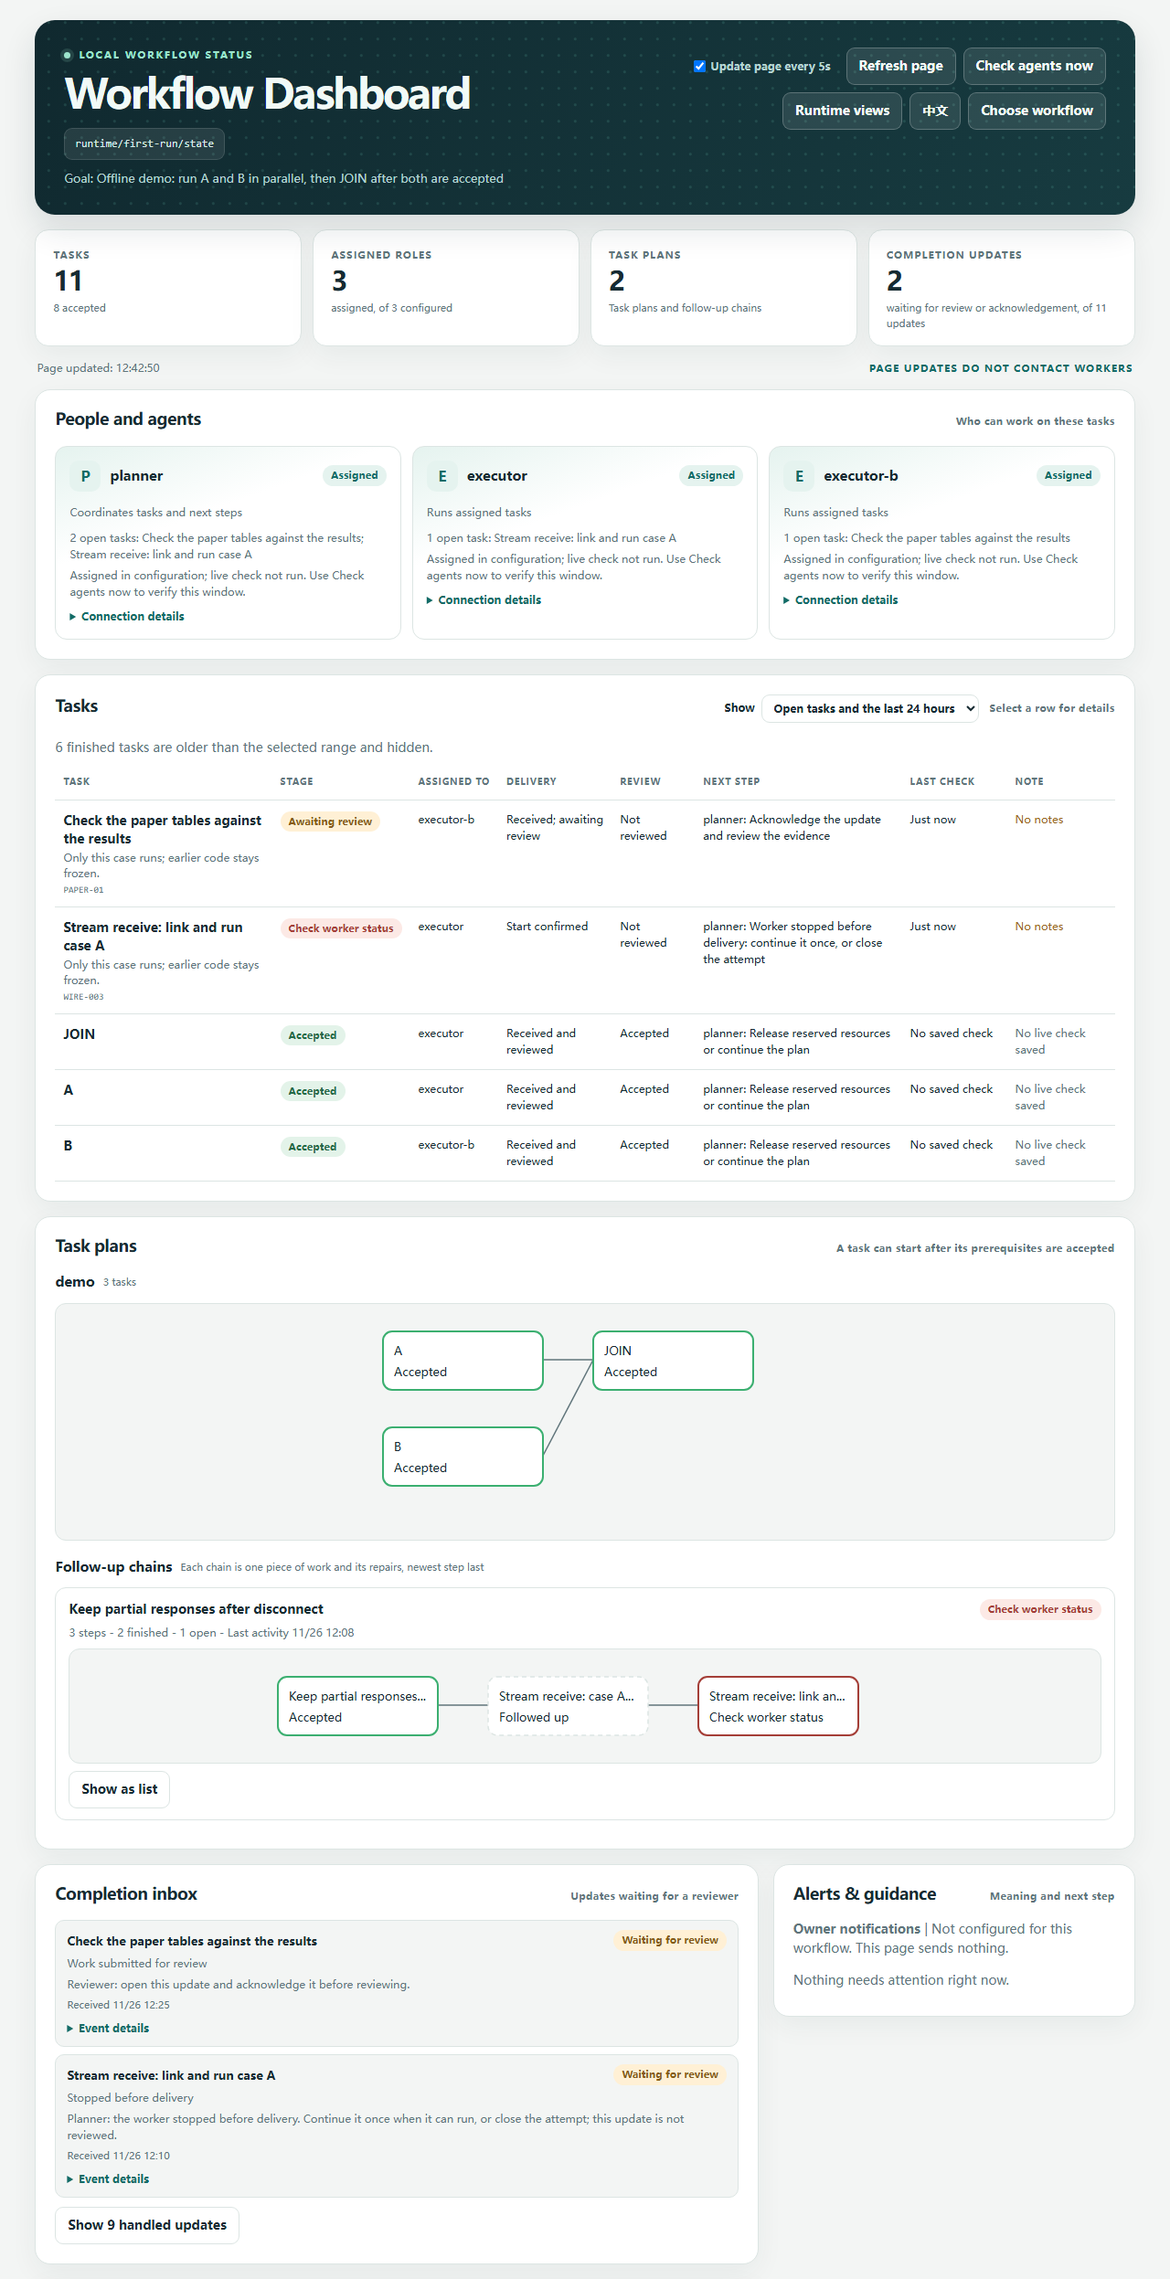
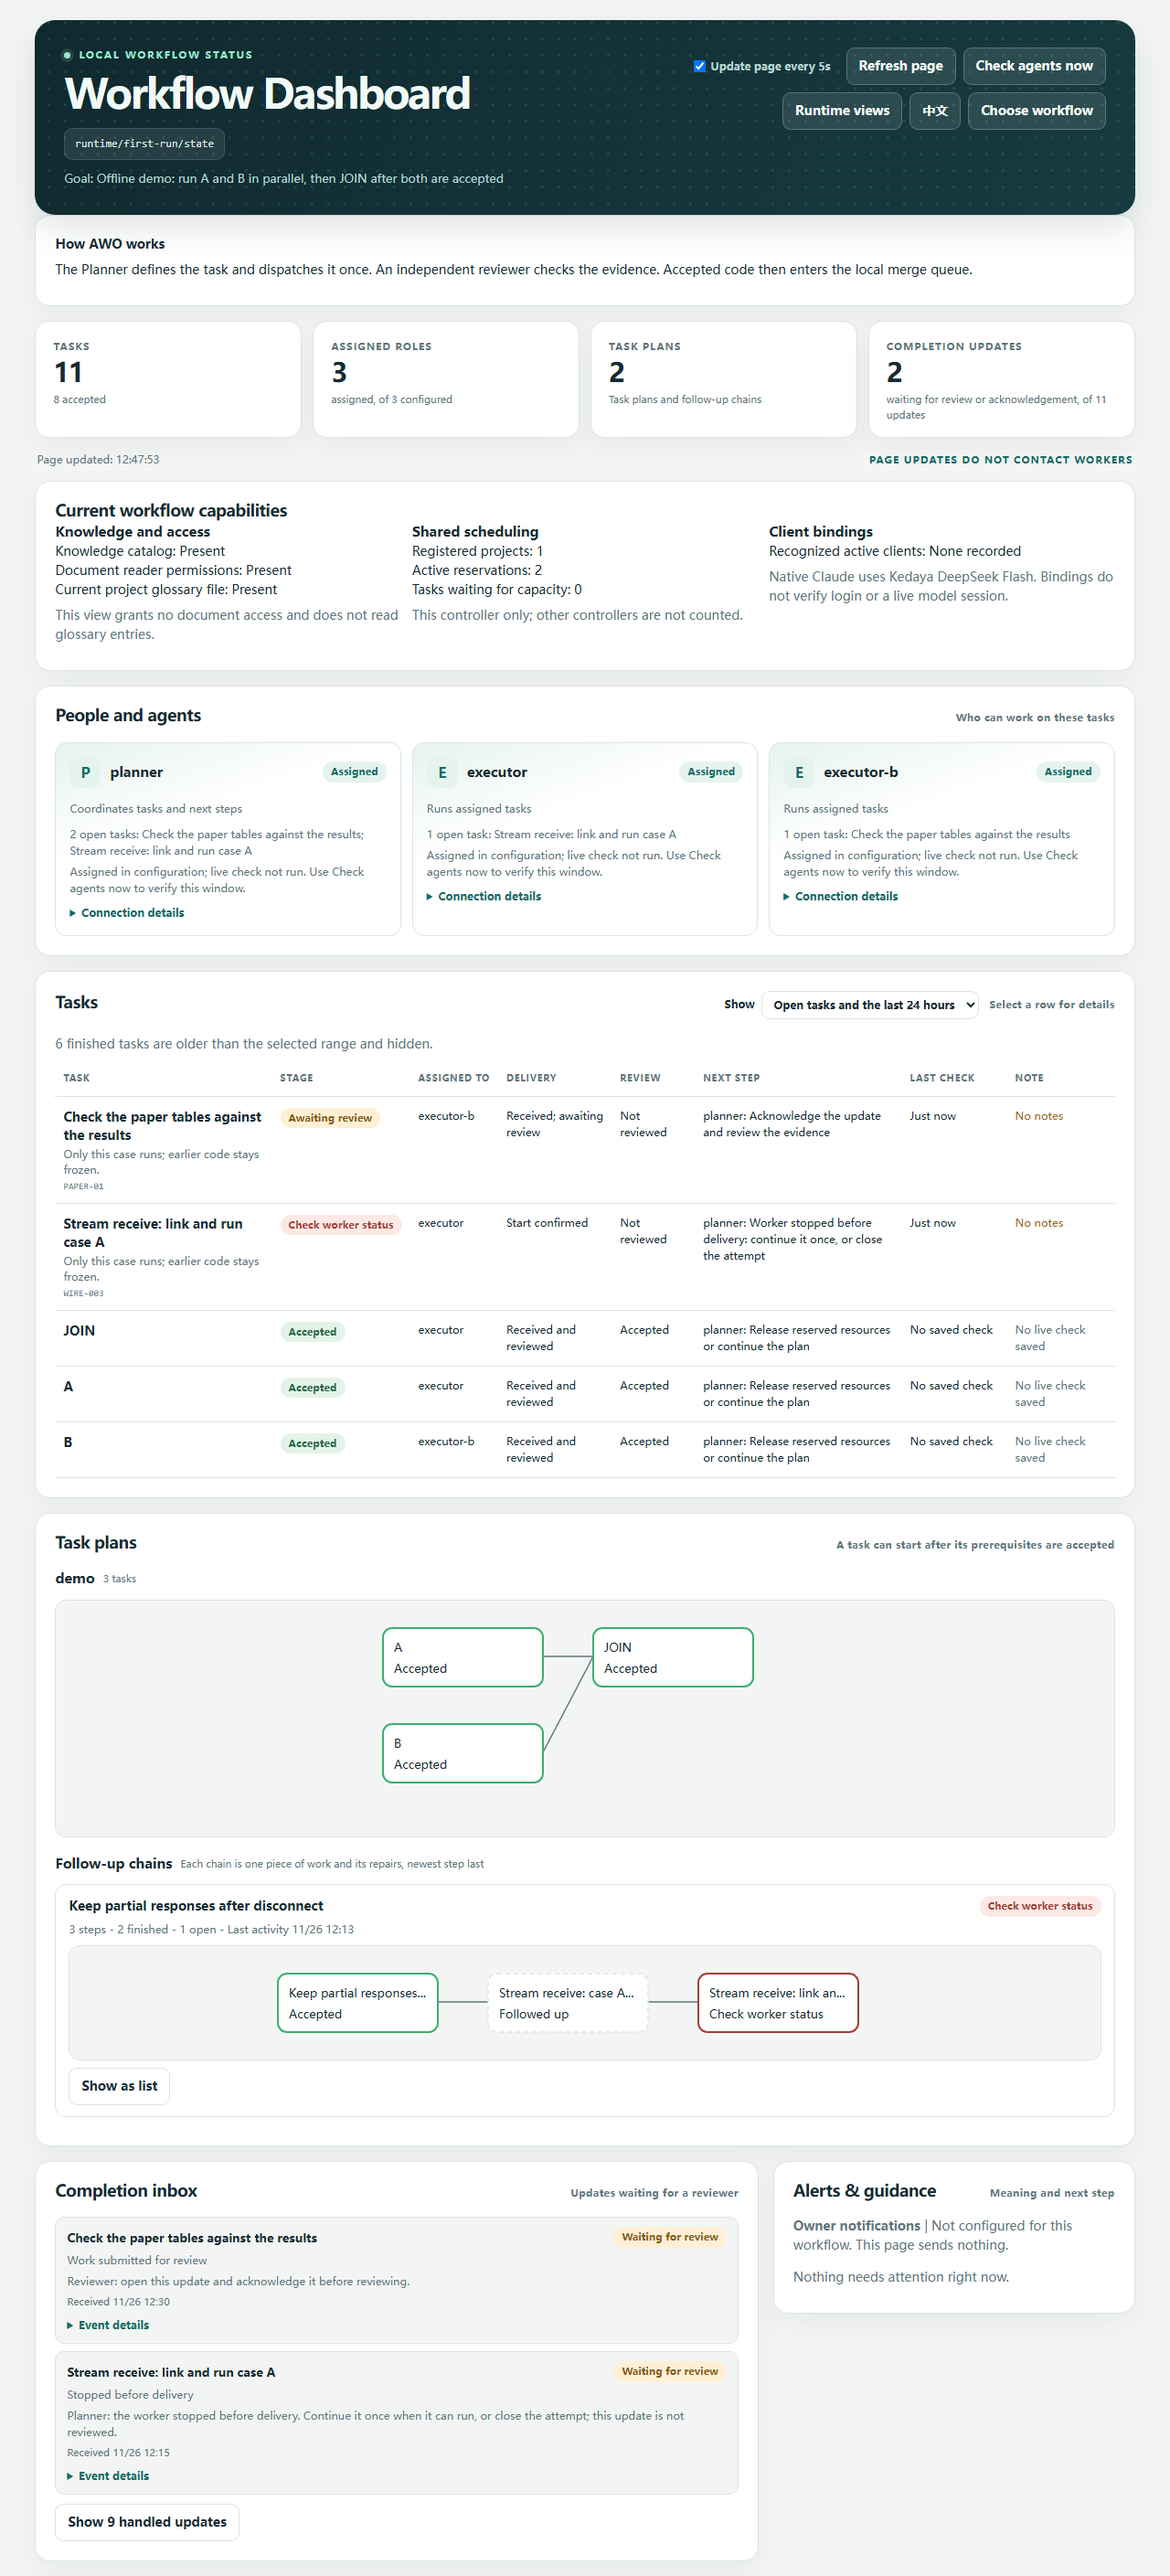
feat: show controller capabilities and workflow guide on the read-only dashboard

diff --git a/scripts/dashboard.py b/scripts/dashboard.py
@@ -436,6 +436,7 @@ svg line.grid { stroke:var(--line); stroke-width:1 } svg text.axis { font-size:1
       <button id="chat-open" type="button" class="hidden">Chat</button>
       <button id="lang" type="button" translate="no" aria-label="Language">&#x4e2d;&#x6587;</button>
       <button id="switch" type="button" class="hidden">Choose workflow</button></div></header>
+  <aside class="panel"><strong>How AWO works</strong><p>The Planner defines the task and dispatches it once. An independent reviewer checks the evidence. Accepted code then enters the local merge queue.</p></aside>
   <section class="overview" id="overview" aria-label="Workflow overview">
     <div class="metric"><span class="metric-label">Tasks</span><strong id="metric-tasks" class="metric-value">--</strong>
       <span id="metric-tasks-note" class="metric-note">Accepted tasks</span></div>
@@ -456,6 +457,7 @@ svg line.grid { stroke:var(--line); stroke-width:1 } svg text.axis { font-size:1
       <button id="open-state" class="primary" type="button">Open</button></div>
     <p id="picker-error" class="error" role="alert"></p></section>
   <div class="grid" id="main">
+    <section class="panel wide"><h2>Current workflow capabilities</h2><div class="cards" id="capabilities"></div></section>
     <section class="panel wide hidden" id="chat-panel"><div class="panel-head"><h2>Chat with a role</h2>
       <span class="panel-caption" id="chat-caption">Sent by the bound controller</span></div>
       <p class="muted">Messages go to the selected agent's session as typed input.
@@ -1245,6 +1247,22 @@ svg line.grid { stroke:var(--line); stroke-width:1 } svg text.axis { font-size:1
         next:'Open the technical detail, correct the condition, then let the next scheduling pass run.',
         technical:block.reason || 'No reason recorded'});
     if (!alerts.children.length) empty(alerts, 'Nothing needs attention right now.');
+    const cap = data.capabilities, cards = id('capabilities'); cards.replaceChildren();
+    const presence = value => value ? 'Present' : 'Not present';
+    function capability(title, rows, note) {
+      const box = add(cards, 'div', 'card'); add(box, 'h3', '', title);
+      rows.forEach(([label, value]) => add(box, 'div', '', tr(label) + ': ' + tr(String(value))));
+      add(box, 'p', 'muted', note);
+    }
+    capability('Knowledge and access', [['Knowledge catalog', presence(cap.catalog)],
+      ['Document reader permissions', presence(cap.reader_registry)], ['Current project glossary file',
+      cap.glossary_file === null ? 'No project selected in ledger' : presence(cap.glossary_file)]],
+      'This view grants no document access and does not read glossary entries.');
+    capability('Shared scheduling', [['Registered projects', cap.projects ?? 'No project registry'],
+      ['Active reservations', cap.reservations], ['Tasks waiting for capacity', cap.capacity_waits]],
+      'This controller only; other controllers are not counted.');
+    capability('Client bindings', [['Recognized active clients', cap.clients.join(', ') || 'None recorded']],
+      'Native Claude uses Kedaya DeepSeek Flash. Bindings do not verify login or a live model session.');
     const resources = id('resources'); resources.replaceChildren();
     const caps = data.resource_capacities;
     if (!Object.keys(caps).length) add(resources, 'p', 'muted', 'No named resource limits are set for this workflow.');
@@ -1917,6 +1935,28 @@ def _remember(recent_file, state):
         pass
 
 
+def capability_summary(state, summary, roles):
+    """Controller-local metadata only. Never open a glossary or resolve a material grant."""
+    with scheduler._read_database(state) as con:
+        tables = {r[0] for r in con.execute("SELECT name FROM sqlite_master WHERE type='table' "
+                  "AND name IN ('v2_project','v2_service_state','v2_knowledge','v2_knowledge_reader')")}
+        projects = con.execute("SELECT count(*) FROM v2_project").fetchone()[0] if 'v2_project' in tables else None
+        row = (con.execute("SELECT project_id FROM v2_service_state WHERE id=1").fetchone()
+               if 'v2_service_state' in tables else None)
+    glossary = None
+    if row and isinstance(row[0], str) and re.fullmatch(r"[A-Za-z0-9_-]{1,128}", row[0]):
+        folder = Path(state) / 'glossaries'
+        glossary = not folder.is_symlink() and (folder / (row[0] + '.json')).is_file()
+    known = {'claude', 'codex', 'agy', 'pi', 'omp', 'opencode', 'grok'}
+    clients = sorted({b['harness'] for role in roles for b in role['bindings']
+                      if b['status'] == 'active' and b.get('harness') in known})
+    waits = sum(1 for task in summary['tasks'] if task['phase'] == 'scheduling_blocked' and
+                task.get('blocking_reason', '').startswith(('resource capacity exhausted:', 'max_concurrency reached')))
+    return {'catalog': 'v2_knowledge' in tables, 'reader_registry': 'v2_knowledge_reader' in tables,
+            'glossary_file': glossary, 'projects': projects, 'reservations': len(summary['claims']),
+            'capacity_waits': waits, 'clients': clients}
+
+
 class DashboardServer(ThreadingHTTPServer):
     daemon_threads = True
     # Windows SO_REUSEADDR lets a second socket bind an in-use port; keep port conflicts visible there.
@@ -2115,6 +2155,7 @@ class DashboardServer(ThreadingHTTPServer):
         details = workflow_status.dashboard_details(state, summary)
         targets = [{"role": item["role"], "mode": binding["mode"]}
                    for item in details["roles"] for binding in item["bindings"] if binding["status"] == "active"]
+        base["capabilities"] = capability_summary(state, summary, details["roles"])
         base["chat_targets"] = targets
         if self.manager:
             with scheduler._read_database(state) as con:

diff --git a/scripts/test_dashboard.py b/scripts/test_dashboard.py
@@ -181,6 +181,39 @@ class DashboardTests(unittest.TestCase):
         self.assertEqual(patterns["^Reason code: (.+)$"], "原因代码：$1")
         self.assertEqual(patterns["^Error: (.+)$"], "错误：$1")
 
+    def test_capability_summary_exposes_only_controller_metadata(self):
+        import awo_service
+        before = self.http("GET", "/api/status")[1]["capabilities"]
+        self.assertIsNone(before["projects"])
+        self.assertIsNone(before["glossary_file"])
+        with control.database(self.state) as con:
+            awo_service.create_schema(con)
+            project = awo_service._ensure_project(con, self.state)
+        folder = self.state / "glossaries"
+        folder.mkdir()
+        (folder / (project + ".json")).write_bytes(b"private-canary-invalid-json")
+        status, data, _ = self.http("GET", "/api/status")
+        self.assertEqual(status, 200)
+        cap = data["capabilities"]
+        self.assertTrue(cap["glossary_file"] and cap["catalog"] and cap["reader_registry"])
+        self.assertEqual(cap["projects"], 1)
+        self.assertNotIn("private-canary", json.dumps(data))
+        self.assertNotIn(project, json.dumps(cap))
+        self.assertFalse(data["allow_manage"])
+        (folder / (project + ".json")).unlink()
+        self.assertFalse(self.http("GET", "/api/status")[1]["capabilities"]["glossary_file"])
+
+    def test_capacity_waits_and_bindings_exclude_unrelated_states(self):
+        tasks = [{"phase": phase, "blocking_reason": why} for phase, why in (
+            ("scheduling_blocked", "resource capacity exhausted: gpu"),
+            ("scheduling_blocked", "max_concurrency reached"),
+            ("scheduling_blocked", "workspace overlaps a running task: T1"),
+            ("accepted", "resource capacity exhausted: gpu"))]
+        bindings = [{"status": status, "harness": harness} for status, harness in (
+            ("active", "claude"), ("active", "private-canary"), ("pending", "codex"))]
+        cap = dashboard.capability_summary(self.state, {"tasks": tasks, "claims": []}, [{"bindings": bindings}])
+        self.assertEqual((cap["capacity_waits"], cap["clients"]), (2, ["claude"]))
+
     def test_status_never_writes_or_queries_adapters(self):
         database = self.state / "workflow.sqlite3"
         before = database.read_bytes()

diff --git a/docs/images/dashboard_shot.py b/docs/images/dashboard_shot.py
@@ -176,6 +176,15 @@ def build_ledger(root):
                 value = json.loads(data)
                 value["created_at"] = (now - ago + timedelta(minutes=2 * len(rows))).isoformat()
                 con.execute("UPDATE events SET data=? WHERE id=?", (json.dumps(value), event_id))
+    # Metadata for a synthetic project; no personal catalog or client credentials.
+    import awo_service
+    with sqlite3.connect(state / "workflow.sqlite3") as con:
+        con.row_factory = sqlite3.Row
+        awo_service.create_schema(con)
+        project = awo_service._ensure_project(con, state)
+    folder = state / "glossaries"
+    folder.mkdir(exist_ok=True)
+    (folder / (project + ".json")).write_text("{}", encoding="utf-8")
     return state, who
 
 
@@ -205,6 +214,11 @@ def capture(browser, root, server, target, prepare, bottom_js, name):
         for expression in prepare:
             tools.call("Runtime.evaluate", expression=expression)
             time.sleep(1)
+        if name == "overview":
+            ready = tools.call("Runtime.evaluate", returnByValue=True, expression=
+                               "document.querySelectorAll('#capabilities h3').length === 3")
+            if not ready["result"].get("value"):
+                raise RuntimeError("Capability cards did not render")
         top, bottom = tools.call("Runtime.evaluate", returnByValue=True, expression=bottom_js)["result"]["value"]
         shot = tools.call("Page.captureScreenshot", format="png", captureBeyondViewport=True,
                           clip={"x": 0, "y": top, "width": 1280, "height": bottom - top, "scale": 1})
